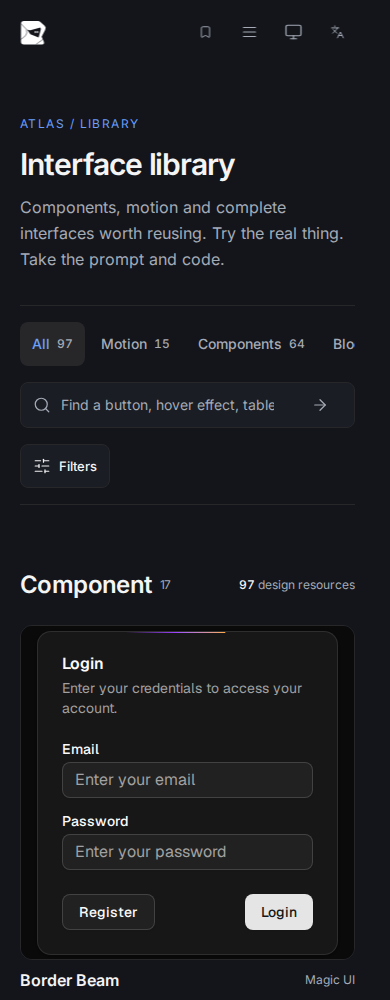
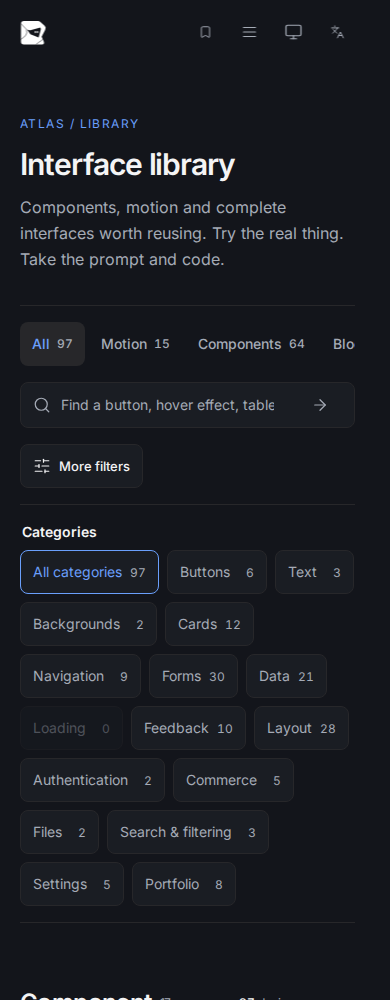
Restore visible purpose categories and discovery shortcuts

diff --git a/atlas/browse.js b/atlas/browse.js
@@ -100,6 +100,7 @@ export function createBrowse({
     const heading = (number, title, destination, label) =>
       `<div class="discovery-section-heading"><h2><span class="section-number">${number}</span>${title}</h2><a class="text-link" href="${destination}">${label}${icon("arrow-up-right")}</a></div>`;
     return `<section class="discovery-intro"><h1>${t("好界面，值得细看。", "Interfaces, up close.")}</h1><form id="discovery-search" class="discovery-search"><div class="market-search">${icon("search")}<input id="discovery-query" name="q" type="search" aria-label="${t("搜索 UI", "Search UI")}" placeholder="${t("按钮、动效、登录页面…", "Buttons, motion, sign-in pages…")}"><button type="submit" class="icon-button" aria-label="${t("搜索", "Search")}">${icon("arrow-right")}</button></div></form></section>
+    <nav class="discovery-categories" aria-label="${t("按用途找资源", "Find resources by purpose")}">${["buttons", "cards", "forms", "navigation", "data", "auth", "backgrounds"].map((id) => `<a href="${href("explore", "", { category: id })}">${t(...categories[id])}</a>`).join("")}<a class="all-categories" href="${href("explore")}">${t("全部分类", "All categories")}${icon("arrow-right")}</a></nav>
     <section class="featured-section discovery-section">${heading("01", t("精选界面", "Selected interfaces"), href("explore"), t("查看全部", "View all"))}<div class="market-grid discovery-grid">${items.map(card).join("")}</div></section>
     <section class="discovery-section collection-section">${heading("02", t("沿着主题探索", "Follow a theme"), href("explore"), t("探索资源", "Explore resources"))}<div class="discovery-collections">${discovery.collections
       .map((c) => {
@@ -223,18 +224,19 @@ export function createBrowse({
     .join(
       "",
     )}</nav><label class="market-search">${icon("search")}<input name="q" type="search" aria-label="${appState.route.view === "favorites" ? t("搜索收藏", "Search saved") : t("搜索 UI", "Search UI")}" placeholder="${t("找一个按钮、悬停效果、表格…", "Find a button, hover effect, table…")}" value="${esc(appState.route.params.get("q") || "")}"><button class="icon-button" type="submit" aria-label="${t("搜索", "Search")}">${icon("arrow-right")}</button></label><div class="catalog-facets">
-  <button type="button" class="button advanced-filters-toggle" data-advanced-filters aria-controls="advanced-filters" aria-expanded="${expanded}">${icon("sliders-horizontal")}${t("筛选", "Filters")}</button></div></div>
+  <button type="button" class="button advanced-filters-toggle" data-advanced-filters aria-controls="advanced-filters" aria-expanded="${expanded}">${icon("sliders-horizontal")}${t("更多筛选", "More filters")}</button></div></div>
   ${collection ? `<input type="hidden" name="collection" value="${collection.id}">` : ""}<input type="hidden" name="category" value="${esc(appState.route.params.get("category") || "all")}">
 
-  <div class="filter-options-row"><div class="active-filters" id="active-filters" aria-label="${t("已选条件", "Selected filters")}"></div></div>
-  <div class="advanced-filters" id="advanced-filters"><fieldset class="category-facet"><legend>${t("用途分类", "Categories")}</legend>  <nav class="category-strip" data-shell-key="resource-categories" aria-label="${t("资源分类", "Resource categories")}">${Object.entries(
+  <fieldset class="category-facet"><legend>${t("用途分类", "Categories")}</legend>  <nav class="category-strip" data-shell-key="resource-categories" aria-label="${t("资源分类", "Resource categories")}">${Object.entries(
     { all: ["全部分类", "All categories"], ...categories },
   )
     .map(
       ([id, labels]) =>
         `<button type="button" data-category="${id}" aria-pressed="${id === "all" ? !selections(appState.route.params.get("category")).length : selections(appState.route.params.get("category")).includes(id)}">${t(labels[0], labels[1])}<span>${id === "all" ? resourceCounts.total : resourceCounts.byCategory.get(id) || 0}</span></button>`,
     )
-    .join("")}</nav></fieldset>${selectFilter(
+    .join("")}</nav></fieldset>
+  <div class="filter-options-row"><div class="active-filters" id="active-filters" aria-label="${t("已选条件", "Selected filters")}"></div></div>
+  <div class="advanced-filters" id="advanced-filters">${selectFilter(
     "library",
     t("组件库", "Libraries"),
     Object.values(libraries).map((x) => [x.id, x.name]),

diff --git a/atlas/styles/browse.css b/atlas/styles/browse.css
@@ -83,10 +83,9 @@
   flex-shrink: 0;
 }
 .category-facet {
-  grid-column: 1 / -1;
   border: 0;
   padding: 0 0 16px;
-  margin: 0;
+  margin: 16px 0 0;
   border-bottom: 1px solid var(--line);
   min-width: 0;
 }
@@ -113,6 +112,10 @@
   background: var(--panel);
 }
 .category-strip button > span {
+  display: inline-block;
+  min-width: 2ch;
+  text-align: right;
+  font-variant-numeric: tabular-nums;
   margin-left: 8px;
   font-size: 12px;
   color: var(--muted-text);
@@ -207,6 +210,38 @@
 .discovery-search input {
   height: 46px;
   font-size: 16px;
+}
+.discovery-categories {
+  display: flex;
+  flex-wrap: wrap;
+  gap: 8px;
+  padding-top: 16px;
+}
+.discovery-categories a {
+  display: inline-flex;
+  align-items: center;
+  justify-content: center;
+  gap: 8px;
+  min-height: 36px;
+  padding: 6px 12px;
+  border: 1px solid var(--line);
+  border-radius: var(--control-radius);
+  background: var(--panel);
+  font-size: 14px;
+}
+.discovery-categories a:hover,
+.discovery-categories a:focus-visible {
+  color: var(--action);
+  border-color: var(--action);
+}
+.discovery-categories .all-categories {
+  border-color: transparent;
+  background: transparent;
+  color: var(--action);
+}
+.discovery-categories svg {
+  width: 14px;
+  height: 14px;
 }
 .discovery-section-heading {
   gap: 16px;
@@ -307,6 +342,9 @@
     gap: 8px;
   }
   .category-facet .category-strip button {
+    min-height: 44px;
+  }
+  .discovery-categories a {
     min-height: 44px;
   }
   .discovery-search input {

diff --git a/atlas/styles/guidance.css b/atlas/styles/guidance.css
@@ -302,6 +302,7 @@
   margin-left: 6px;
 }
 .content-only-filters .market-tabs,
+.content-only-filters .category-facet,
 .content-only-filters .category-strip,
 .content-only-filters .catalog-facets,
 .content-only-filters .filter-options-row,

diff --git a/docs/ui/editorial-atlas/README.md b/docs/ui/editorial-atlas/README.md
@@ -9,11 +9,12 @@
 - 主导航保留发现、资源库、设计指导、资源导航，收藏为独立快捷入口。完整案例属于资源库类型导航；旧路由仍有效，资源库导航记住最近类型。
 - 发现页依次展示标题和搜索、八个精选界面、主题合集、完整案例、设计指导入口。首屏移除重复介绍、副标和额外导流链接，保留各区块的查看全部。只有首个精选卡片跨列，普通列表使用等宽网格。首页搜索和旧发现页筛选链接转入资源库并保留条件。
 - 宽屏资源网格使用四列、16px 列间距；1199px 及以下三列、899px 及以下两列、599px 及以下一列。完整案例专区使用三列并随窄屏收拢。名称和来源同行，简介一行，移除卡片底部分隔线和多余留白，移动端菜单和收藏仍保留 44px 触控尺寸。
-- 分类和分面集中在筛选面板，选中条件保持可见并可逐项删除。卡片展示标题、来源、简介和最多两个标签，收藏常显，复制和详情收入可键盘 / 触屏操作的更多菜单。完整简介可在详情阅读，桌面悬停简介也可查看全文。菜单关闭及详情返回恢复触发器焦点。
+- 用途分类常显于资源库，保留计数、多选和逐项移除；首页增加按钮、卡片、表单、导航、数据展示、登录注册、背景及全部分类的直达入口。其他分面放在“更多筛选”中，收起不影响分类操作。分类沿用现有标识及 URL 参数，不迁移收藏或目录数据。
+- 卡片展示标题、来源、简介和最多两个标签，收藏常显，复制和详情收入可键盘 / 触屏操作的更多菜单。完整简介可在详情阅读，桌面悬停简介也可查看全文。菜单关闭及详情返回恢复触发器焦点。
 - 详情依次组织简介、设计解读、提示词、来源与关联内容。提示词全文和来源可折叠，复制无需展开。说明层独立滚动，开关与折叠不改变预览尺寸或位置。
 - 指导、导航、收藏共用标题、卡片和空状态规则，阅读正文限制宽度。组合器分为项目需求、方法与参考、交付要求，宽屏双栏，900px 及以下纵向排列。
 
-为了保持启动脚本预算，来源页和使用指南按需加载；最终生产构建启动脚本 gzip 为 **188,843 字节**，低于 190,000 字节上限。预算未放宽。
+为了保持启动脚本预算，来源页和使用指南按需加载；最终生产构建启动脚本 gzip 为 **188,969 字节**，低于 190,000 字节上限。预算未放宽。
 
 ## 前后对比
 
@@ -31,13 +32,15 @@
 
 ### 首屏与卡片密度调整
 
-以 `d032cb5` 的首页为调整前基线，在 1440 × 1000 的窗口实测：介绍区由约 292px 缩至 89px，卡片说明区由 172px 缩至 92px，预览高度由约 389px 缩至 292px。首行展示三个精选资源，后续普通行展示四个；首张卡片由距顶部约 504px 提前至 277px。移动端说明区为 104px，保持完整触控尺寸。
+`0e4efd5` 的密度调整以 `d032cb5` 为基线，在 1440 × 1000 的窗口实测：介绍区由约 292px 缩至 89px，卡片说明区由 172px 缩至 92px，预览高度由约 389px 缩至 292px。首行展示三个精选资源，后续普通行展示四个；该阶段首张卡片由距顶部约 504px 提前至 277px。后续增加常用分类快捷入口后为 329px，介绍区及卡片尺寸保持不变。移动端说明区为 104px，保持完整触控尺寸。
 
 [密度调整前](before-density-home.png) · [调整后](after-density-home.png) · [调整后深色](after-density-home-dark.png)。前后浅色截图使用相同窗口与路由；调整前图片保留自上一阶段的验收截图。
 
 ## 验收范围与证据
 
-`npm run check` 通过目录校验、主站及两个示例的类型检查和 21 项单元测试。`npm test` 完成生产构建和全量浏览器回归；一处旧测试仍要求宽屏三列，按当前四列规则更新断言后，对同一构建使用 `npm run test:built -- --project=chromium tests/gallery.spec.mjs` 复验。最终 184 项浏览器用例均通过：Chromium 166 项、Firefox 9 项、WebKit 9 项。
+分类入口调整对比：[首页调整前](before-category-home.png) / [当前首页](after-home.png)，[资源库调整前](before-category-library.png) / [当前资源库](after-library.png)。前图来自 `0e4efd5` 的验收截图。首页直达分类、分类多选、重载恢复、清除条件以及手机触屏入口由 `tests/editorial-atlas.spec.mjs` 实际验证；分类按钮常显，更多筛选默认收起。
+
+`npm run check` 通过目录校验、主站及两个示例的类型检查和 21 项单元测试。`npm test` 完成生产构建及全量回归；分类入口增加后，首屏验收改为检查首个预览完整可见，触屏表单测试先滚动到卡片再等待其按需加载。对同一构建复验 `editorial-atlas` 与 `inline-experience` 后，最终 184 项浏览器用例均通过：Chromium 166 项、Firefox 9 项、WebKit 9 项。
 
 | 验收内容 | 对应流程 |
 | --- | --- |

diff --git a/README.md b/README.md
@@ -38,7 +38,7 @@
 
 ## 亲手体验，再看细节
 
-发现页按精选界面、主题合集、完整案例和设计指导组织内容；首页搜索会携带关键词进入资源库。资源库用类型导航切换内容，分类和其他条件集中在筛选面板；收起面板后仍可逐项移除已选条件。收藏保留独立快捷入口。
+发现页按精选界面、主题合集、完整案例和设计指导组织内容；首页搜索会携带关键词进入资源库，也可直接点击按钮、卡片、表单等用途分类。资源库常显完整用途分类并支持多选，类型导航切换资源形态；组件库、风格、技术等条件放在“更多筛选”中，收起后仍可逐项移除已选条件。收藏保留独立快捷入口。
 
 紧凑组件可以在卡片内直接操作；较大的页面与系统进入宽屏体验页查看。切换桌面、平板或手机尺寸，观察同一界面在不同空间下的表现。 设备按钮固定模拟宽度，长内容在预览内滚动；进入全屏后，“控制”可展开设备、主题与参数，“退出全屏”或 Escape 返回。浏览器不支持全屏 API 时自动使用页内全屏。
 
